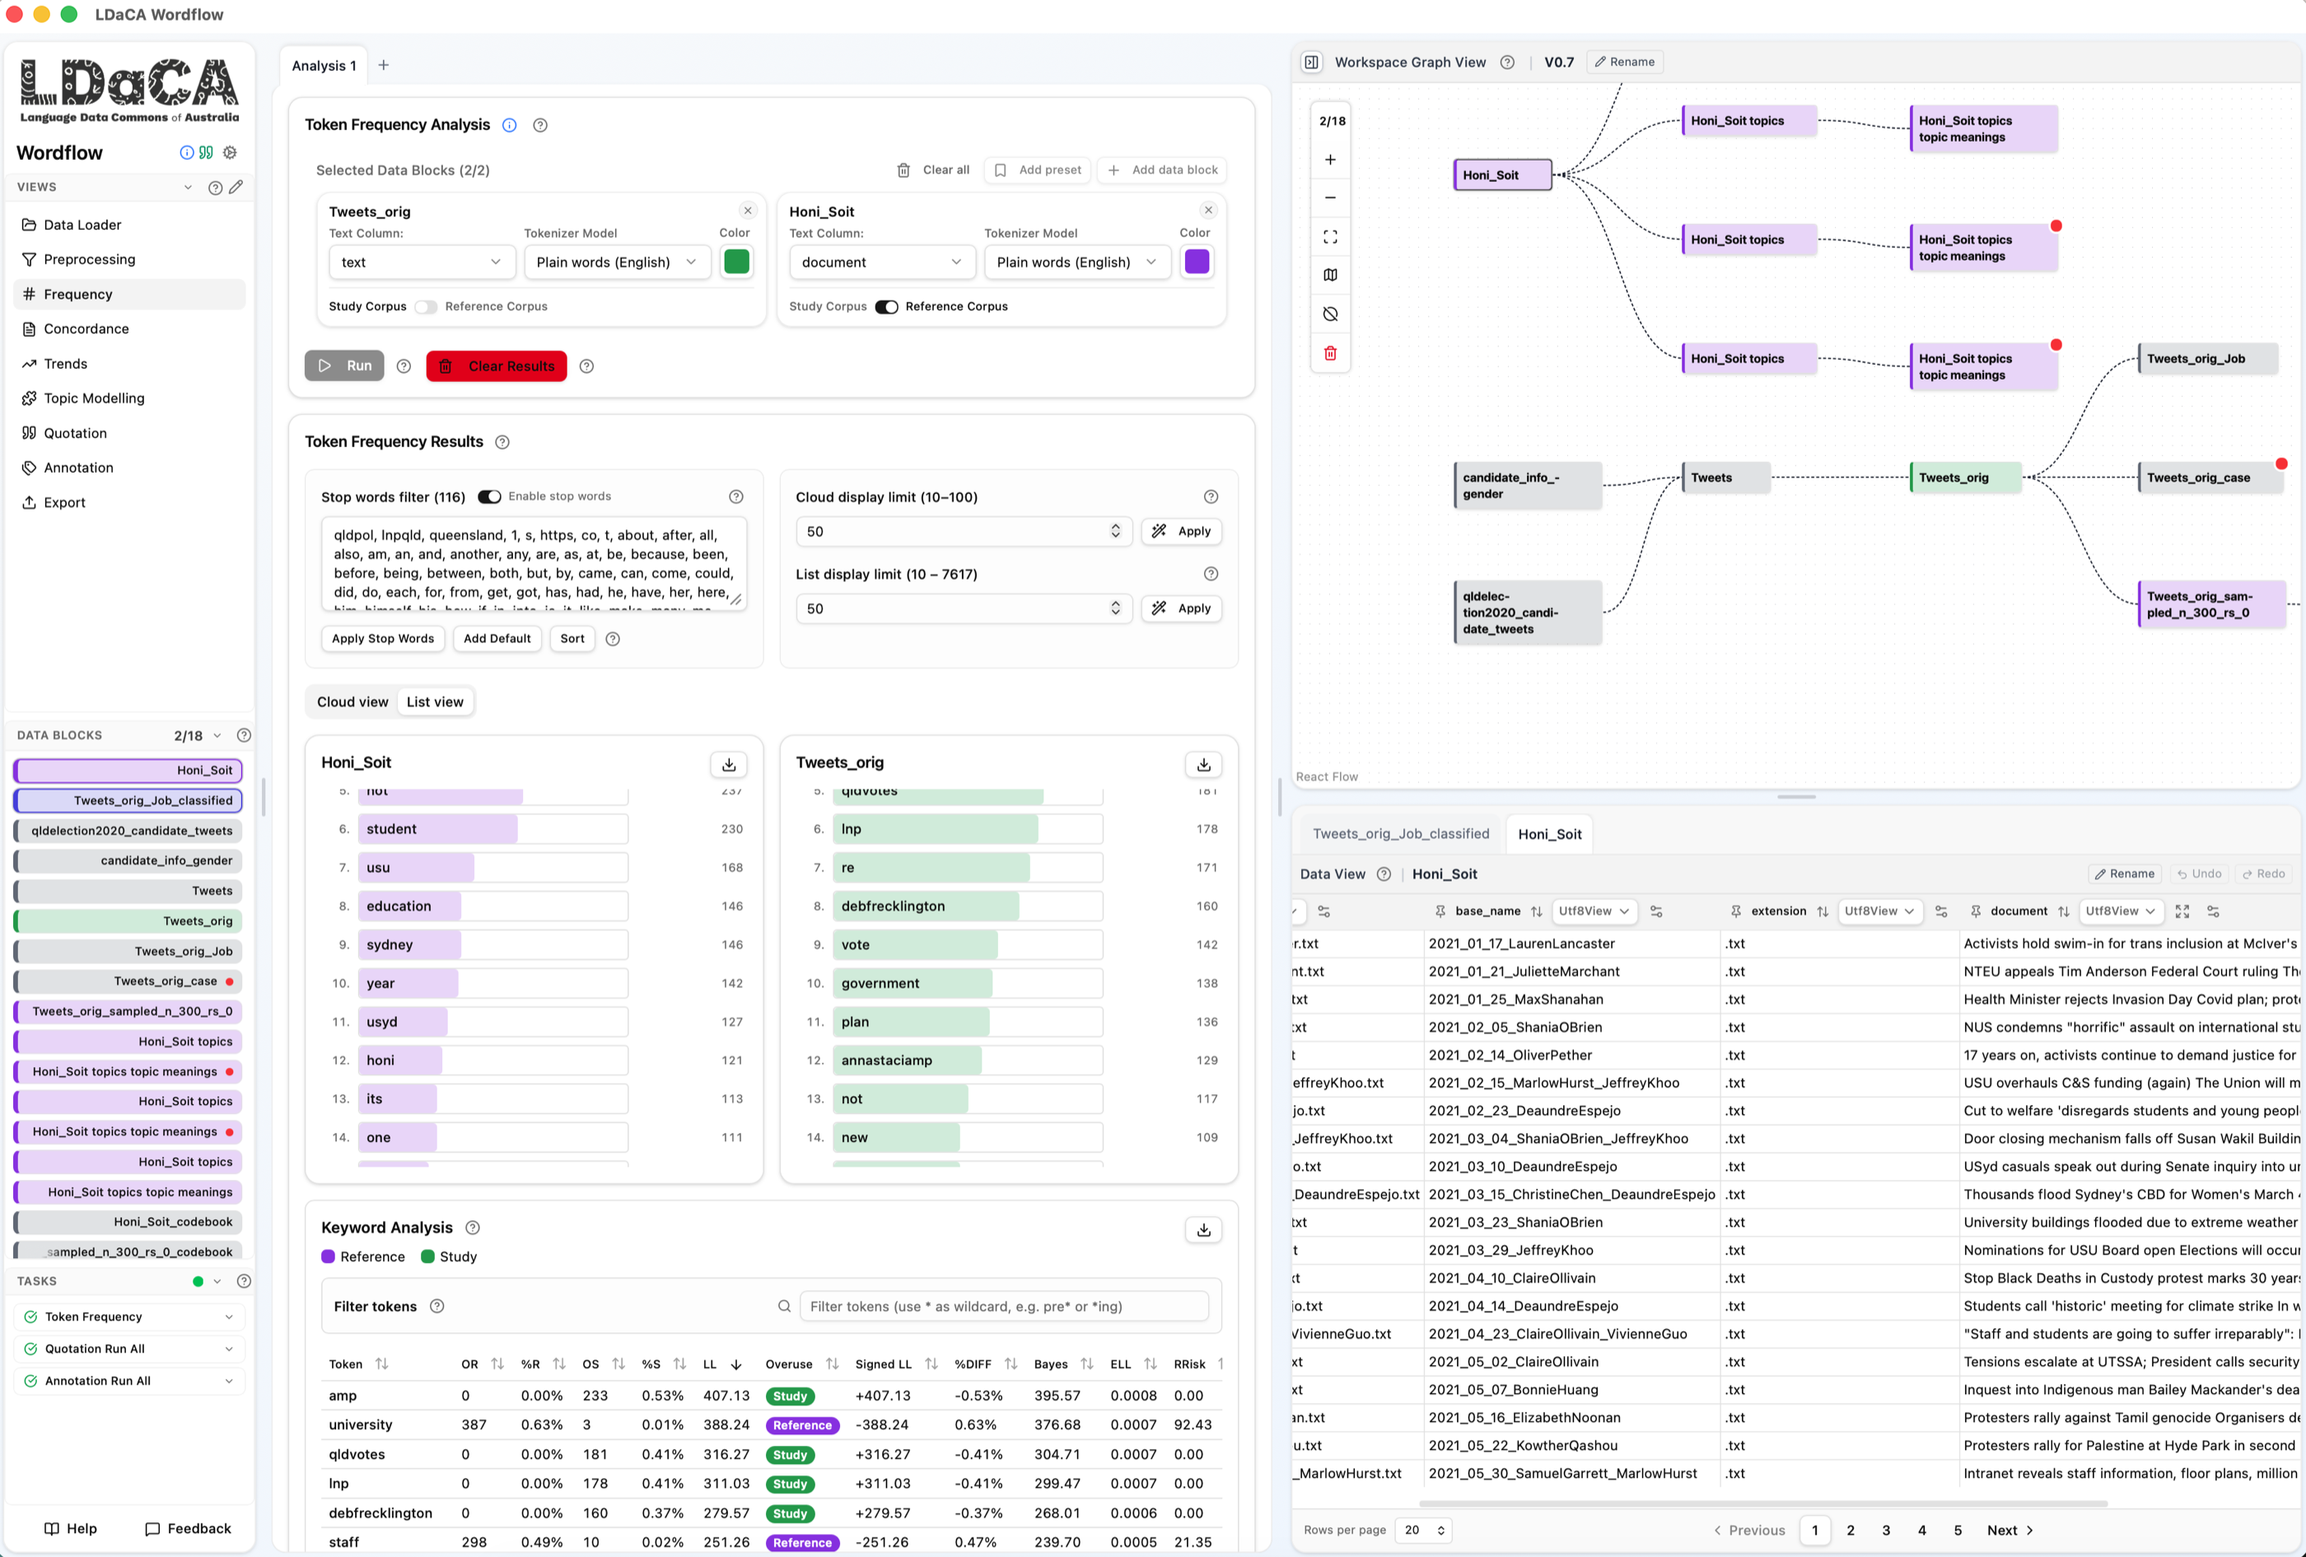
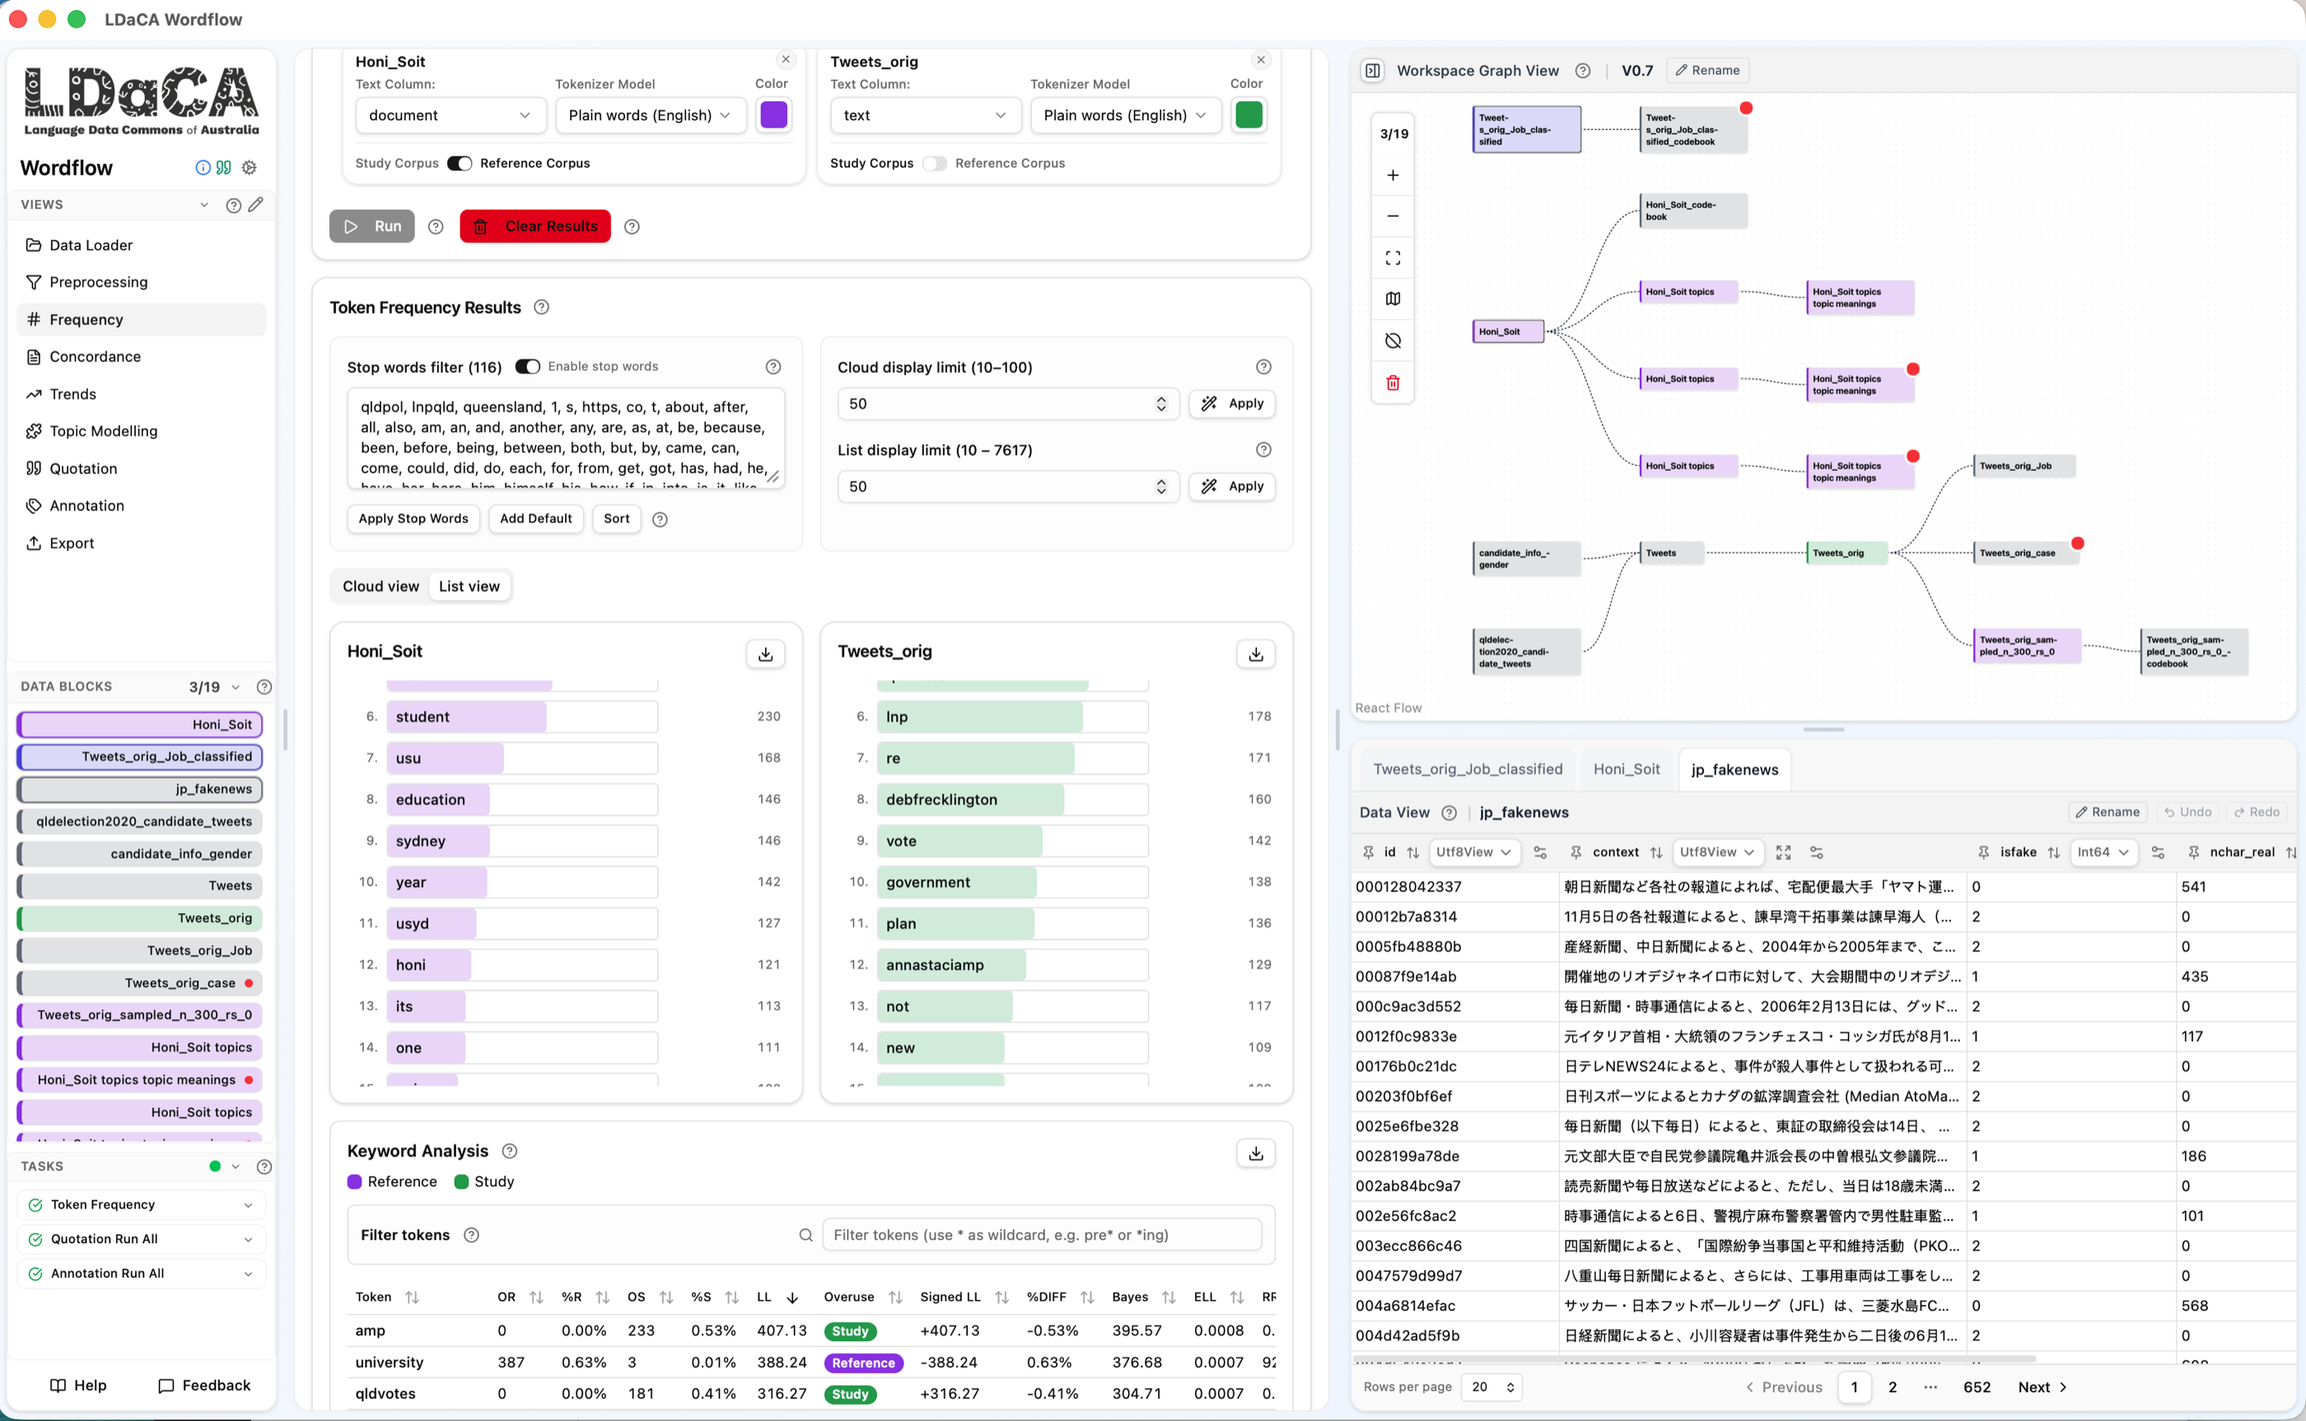
S1 slide 7: wider v0.7.2 capture, re-aimed callouts, larger display

diff --git a/slides/online-s1-intro.html b/slides/online-s1-intro.html
@@ -327,7 +327,7 @@
   .ui-overview-container {
     position: relative;
     width: 100%;
-    max-height: 46vh;
+    max-height: 50vh;
     margin: 0 auto;
     display: flex;
     justify-content: center;
@@ -336,12 +336,12 @@
     position: relative;
     display: inline-block;
     max-width: 100%;
-    max-height: 46vh;
+    max-height: 50vh;
   }
   .ui-overview-container img {
     display: block;
     max-width: 100%;
-    max-height: 46vh;
+    max-height: 50vh;
     width: auto;
     height: auto;
     border: 1px solid var(--rule);
@@ -498,36 +498,36 @@
     <p style="margin-top: 1.5em; font-style: italic;">One address to remember: <code style="font-style: normal; background: var(--accent-soft); padding: 0.05em 0.35em; border-radius: 4px;">sih.tools/wordflow</code>. Wordflow's home page has the downloads, the run-in-browser option, the documentation, and more about the project.</p>
   </section>
 
-  <!-- Slide 7: UI tour — annotated v0.7.2 screenshot (images/ui-overview-v07.png, 2800x1891).
+  <!-- Slide 7: UI tour — annotated v0.7.2 screenshot (images/ui-overview-v07.png, 2800x1726).
        To adjust a circle, edit the cx/cy in the matching <circle>+<text> pair (image pixel coords). -->
   <section class="slide ui-overview-slide" data-notes="Do this on the LIVE app, screen-shared; the slide is the recap. Walk the numbers in order and land 6 and 7 in one breath each: Tasks is where slow analyses show progress (you'll point at it again during Topic Modelling), and Help + Feedback are the two buttons to remember.">
     <h2>The interface at a glance</h2>
     <div class="ui-overview-container">
       <div class="ui-overview-figure">
         <img src="images/ui-overview-v07.png" alt="Annotated Wordflow v0.7 workspace with seven labelled regions" />
-        <svg class="ui-overview-overlay" viewBox="0 0 2800 1891" preserveAspectRatio="none" xmlns="http://www.w3.org/2000/svg">
+        <svg class="ui-overview-overlay" viewBox="0 0 2800 1726" preserveAspectRatio="none" xmlns="http://www.w3.org/2000/svg">
           <g font-family="-apple-system, BlinkMacSystemFont, 'Segoe UI', sans-serif" font-weight="700" font-size="72" text-anchor="middle">
             <!-- 1. Tool sidebar — Views list (Frequency row) -->
-            <circle cx="154" cy="357" r="56" fill="#c8423e" stroke="#fdfcf8" stroke-width="6"/>
-            <text x="154" y="382" fill="#fdfcf8">1</text>
+            <circle cx="169" cy="388" r="56" fill="#c8423e" stroke="#fdfcf8" stroke-width="6"/>
+            <text x="169" y="413" fill="#fdfcf8">1</text>
             <!-- 2. Tool interface + tabs — middle column header -->
-            <circle cx="649" cy="151" r="56" fill="#c8423e" stroke="#fdfcf8" stroke-width="6"/>
-            <text x="649" y="176" fill="#fdfcf8">2</text>
+            <circle cx="515" cy="374" r="56" fill="#c8423e" stroke="#fdfcf8" stroke-width="6"/>
+            <text x="515" y="399" fill="#fdfcf8">2</text>
             <!-- 3. Workspace Graph View — top right header -->
-            <circle cx="1588" cy="90" r="56" fill="#c8423e" stroke="#fdfcf8" stroke-width="6"/>
-            <text x="1588" y="115" fill="#fdfcf8">3</text>
+            <circle cx="1795" cy="85" r="56" fill="#c8423e" stroke="#fdfcf8" stroke-width="6"/>
+            <text x="1795" y="110" fill="#fdfcf8">3</text>
             <!-- 4. Data View — bottom right header -->
-            <circle cx="1620" cy="1060" r="56" fill="#c8423e" stroke="#fdfcf8" stroke-width="6"/>
-            <text x="1620" y="1085" fill="#fdfcf8">4</text>
+            <circle cx="1705" cy="986" r="56" fill="#c8423e" stroke="#fdfcf8" stroke-width="6"/>
+            <text x="1705" y="1011" fill="#fdfcf8">4</text>
             <!-- 5. Data Blocks quick-select — left sidebar list -->
-            <circle cx="154" cy="965" r="56" fill="#c8423e" stroke="#fdfcf8" stroke-width="6"/>
-            <text x="154" y="990" fill="#fdfcf8">5</text>
+            <circle cx="169" cy="910" r="56" fill="#c8423e" stroke="#fdfcf8" stroke-width="6"/>
+            <text x="169" y="935" fill="#fdfcf8">5</text>
             <!-- 6. Tasks — left sidebar, running analyses -->
-            <circle cx="154" cy="1595" r="56" fill="#c8423e" stroke="#fdfcf8" stroke-width="6"/>
-            <text x="154" y="1620" fill="#fdfcf8">6</text>
+            <circle cx="168" cy="1463" r="56" fill="#c8423e" stroke="#fdfcf8" stroke-width="6"/>
+            <text x="168" y="1488" fill="#fdfcf8">6</text>
             <!-- 7. Help + Feedback — bottom of the sidebar -->
-            <circle cx="159" cy="1828" r="56" fill="#c8423e" stroke="#fdfcf8" stroke-width="6"/>
-            <text x="159" y="1853" fill="#fdfcf8">7</text>
+            <circle cx="170" cy="1660" r="56" fill="#c8423e" stroke="#fdfcf8" stroke-width="6"/>
+            <text x="170" y="1685" fill="#fdfcf8">7</text>
           </g>
         </svg>
       </div>
